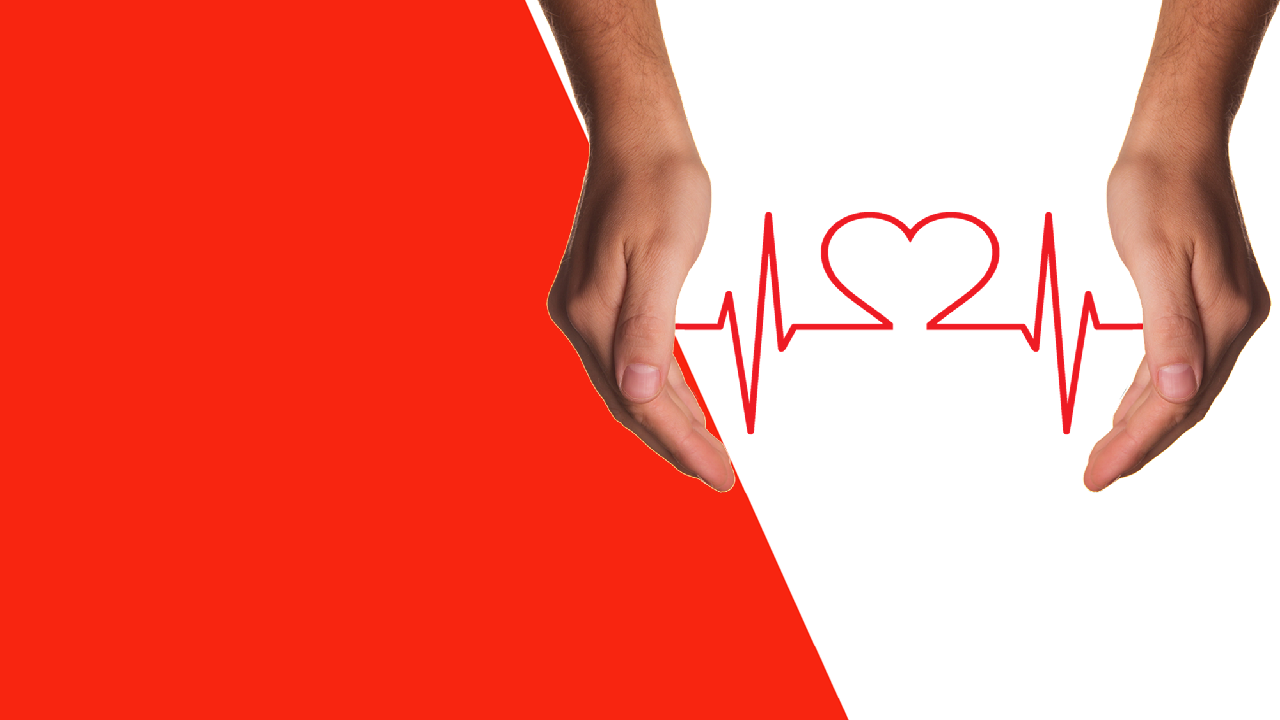
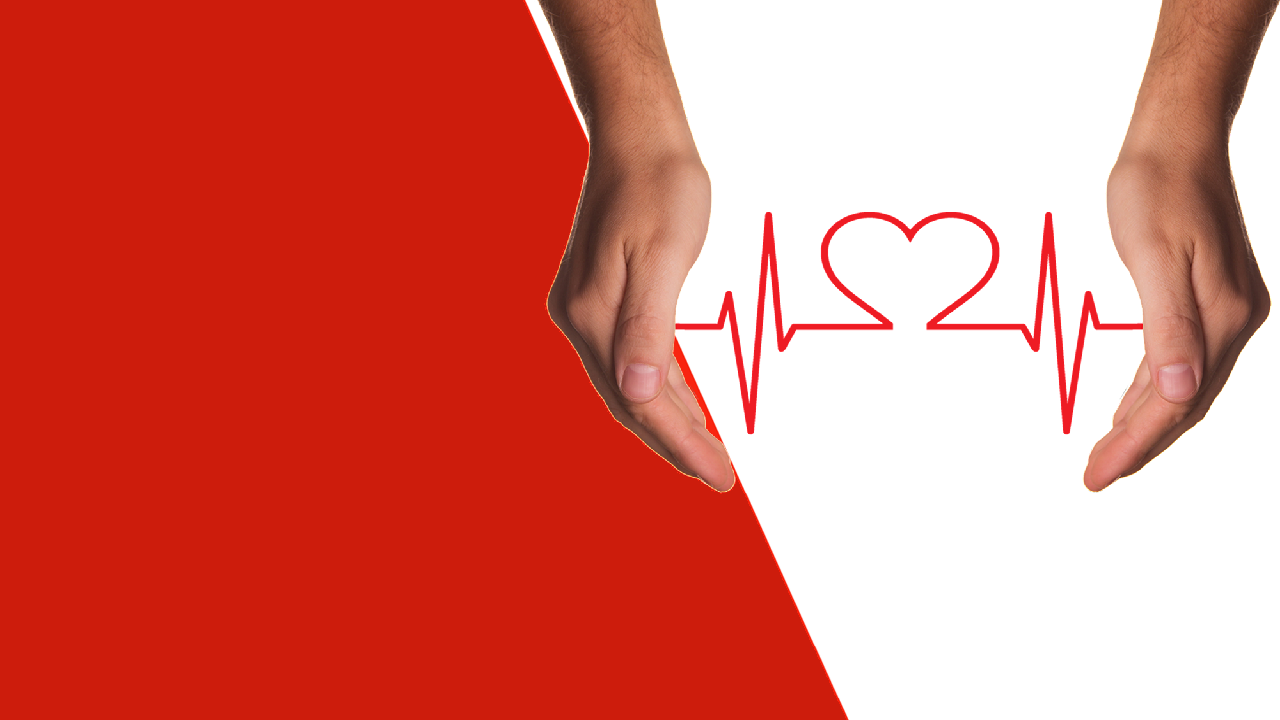
refactory: Ajustado cores e links do projeto

diff --git a/index.css b/index.css
@@ -8,6 +8,7 @@
     padding: 0;
     scroll-behavior: smooth;
     font-family: "Poppins";
+    --primary-color: #CD1C0C;
   
  }
  
@@ -58,7 +59,7 @@
 
 .header-1--menu li:nth-child(3) a{
     color: white;
-    background-color: #f82510;
+    background-color: var(--primary-color);
     transition: .5s;
 
 }
@@ -68,11 +69,11 @@ background: #ff7161;
 
 .header-1--menu li a{
     display: inline-block;
-    color: #f82510;
+    color: var(--primary-color);
     text-decoration: none;
     text-transform: uppercase;
     font-size: 12px;
-    border: 1px solid #f82510;
+    border: 1px solid var(--primary-color);
     padding: 10px;
     border-radius: 5px;
     transition: .5s;
@@ -122,7 +123,7 @@ background: #ff7161;
 }
 .heartcare_container--intro button{
     background-color: white;
-    color: #f82510;
+    color: var(--primary-color);
     padding: 10px;
     display: block;
     border: none;
@@ -162,7 +163,7 @@ section.calculadora::after {
 
     font-size: 32px;
     text-align: center;
-    color: #f82510;
+    color: var(--primary-color);
     padding-top: 100px;
 
 }
@@ -197,7 +198,7 @@ section.calculadora article img{
 section.calculadora h3 {
     font-size: 20px;
     text-align: center;
-    color: #f82510;
+    color: var(--primary-color);
     margin: 50px 0;
 
 }
@@ -215,7 +216,7 @@ section.calculadora form#imcForm input{
     display: flex;
     margin-left: 20px;
     margin-right: 3px;
-    border: 1px solid #f82510;
+    border: 1px solid var(--primary-color);
     padding: 5px;
     width: 130px;
     border-radius: 5px;
@@ -226,7 +227,7 @@ section.calculadora form#imcForm input{
 
 section.calculadora form#imcForm select{
     appearance: none;
-    border: 1px solid #f82510;
+    border: 1px solid var(--primary-color);
     padding: 5px;
     width: 130px;
     border-radius: 5px;
@@ -242,7 +243,7 @@ section.calculadora .button {
   
 }
 section.calculadora button{
-  background:  #f82510;
+  background:  var(--primary-color);
   padding: 10px;
   border-radius: 5px;
   border: none;
@@ -278,7 +279,7 @@ section.calculadora .imcResultado .imcClassificacao__Resultado{
 
 section.calculadora .imcResultado .imcClassificacao__Resultado p#resultado{
     font-size: 56px;
-    color: #f82510;
+    color: var(--primary-color);
     margin-top: 20px;
     text-align: center;
 
@@ -349,7 +350,7 @@ section#saber__sobre__o__que {
 section#saber__sobre__o__que h1{
     font-size: 32px;
     text-align: center;
-    color: #f82510;
+    color: var(--primary-color);
     padding-top: 100px;
 
 }
@@ -368,7 +369,7 @@ section#saber__sobre__o__que .header-2 .header-2--barra-pesquisa{
 
 section#saber__sobre__o__que .header-2 .header-2--barra-pesquisa input{
     margin-right: 3px;
-    border: 1px solid #f82510;
+    border: 1px solid var(--primary-color);
     padding: 5px;
     width: 300px;
     border-radius: 5px;
@@ -376,7 +377,7 @@ section#saber__sobre__o__que .header-2 .header-2--barra-pesquisa input{
 }
 
 section#saber__sobre__o__que .header-2 .header-2--barra-pesquisa button{
-    background:  #f82510;
+    background:  var(--primary-color);
     padding: 5px 10px;
     border-radius: 5px;
     border: none;
@@ -442,10 +443,10 @@ section#saber__sobre__o__que article .saber__sobre__o__que__conteudo > div p{
 }
 section#saber__sobre__o__que article .saber__sobre__o__que__conteudo > div button{
     background: white;
-    border: 1px solid #f82510;
+    border: 1px solid var(--primary-color);
     padding: 10px;
     border-radius: 3px;
-    color: #f82510;
+    color: var(--primary-color);
     font-size: 14px;
     transition: .5s;
     cursor: pointer;
@@ -472,7 +473,7 @@ header.header-3{
 header.header-3 h1{
     font-size: 32px;
     text-align: center;
-    color: #f82510;
+    color: var(--primary-color);
     padding-top: 100px;
 
 }
@@ -497,7 +498,7 @@ header.header-3 .header-3--barra-pesquisa{
 
 header.header-3 .header-3--barra-pesquisa input{
     margin-right: 3px;
-    border: 1px solid #f82510;
+    border: 1px solid var(--primary-color);
     padding: 5px;
     width: 300px;
     border-radius: 5px;
@@ -506,7 +507,7 @@ header.header-3 .header-3--barra-pesquisa input{
 }
 
 header.header-3 .header-3--barra-pesquisa button{
-    background:  #f82510;
+    background:  var(--primary-color);
     padding: 5px 10px;
     border-radius: 5px;
     border: none;
@@ -634,7 +635,7 @@ section.header-informacoes ul li a{
 /*   Inicio Footer   */
 
 footer.rodape{
-    background: #f82510;
+    background: var(--primary-color);
     height: 80px;
     text-align: center;
     display: flex;
@@ -660,13 +661,13 @@ footer.rodape{
 
   /* Handle */
   ::-webkit-scrollbar-thumb {
-    background: #f82510;
+    background: var(--primary-color);
     border-radius: 10px;
   }
 
   /* Handle on hover */
   ::-webkit-scrollbar-thumb:hover {
-    background: #f82510;
+    background: var(--primary-color);
   }
 
   @media (max-width: 1366px){

diff --git a/index.html b/index.html
@@ -61,10 +61,7 @@
         <!-- Lógica da calculadora IMC em javascript -->
        <h3>Calculadora de IMC</h3>
         <form id="imcForm">
-            <!-- Label Nome não foi requerido no prototipo -->
-            <!-- <label for="nome">Nome:</label>
-            <input type="text" id="nome" required><br><br>  -->
-
+          
             <!-- <label for="genero">Gênero:</label> -->
        <div class="container">
         <select id="genero" required>
@@ -135,7 +132,7 @@
               <div class="conteudo-1">
                 <div><img src="./docs/imagens/ai-generated-8470065_1280 1.png" alt=""></div>
                 <div>
-                    <p>Orientações para insuficiência cardíaca</p>
+                    <p><strong>Orientações para insuficiência cardíaca</strong></p>
                     <p>Medicamentos utilizados, reabilitação, autocuidado...</p>
                </div>
                 <div><button>IR PARA O SITE</button> </div>
@@ -143,7 +140,7 @@
               <div class="conteudo-2">
                 <div><img src="./docs/imagens/heart-5079717_1280 1.png" alt=""></div>
                 <div>
-                    <p>Saúde do coração</p>
+                    <p><strong>Saúde do coração</strong></p>
                     <p>Prevenir ataques e problemas do coração; controlar a pressão arterial...</p>
                </div>
                 <div><button>IR PARA O SITE</button> </div>
@@ -151,7 +148,7 @@
               <div class="conteudo-3">
                 <div><img src="./docs/imagens/medicine-2361046_1280 1.png" alt=""></div>
                 <div>
-                    <p>Doenças cardiovasculares</p>
+                    <p><strong>Doenças cardiovasculares</strong></p>
                     <p>Doença cardíaca reumática, Trombose venosa profunda e embolia pulmonar..</p>
                </div>
                 <div><button>IR PARA O SITE</button> </div>
@@ -159,7 +156,7 @@
               <div class="conteudo-4">
                 <div><img src="./docs/imagens/heart-attack-7479253_1280 1.png" alt=""></div>
                 <div>
-                    <p>Parada Cardíaca</p>
+                    <p><strong>Parada Cardíaca</strong></p>
                     <p>O que fazer em caso de emergência cardiovascular.</p>
                </div>
                 <div><button>IR PARA O SITE</button> </div>
@@ -167,7 +164,7 @@
               <div class="conteudo-5">
                 <div><img src="./docs/imagens/doctor-8733826_1280 1.png" alt=""></div>
                 <div>
-                    <p>Fatores de Risco</p>
+                    <p><strong>Fatores de Risco</strong></p>
                     <p>Fatores de risco para doenças cardiovasculares</p>
                </div>
                 <div><button>IR PARA O SITE</button> </div>
@@ -253,11 +250,11 @@
 
             <ul>
                 <li><strong>Links úteis</strong></li>
-                <li><a href="#">Saúde do coração</a></li>
-                <li><a href="#">Parada cardíaca</a></li>
-                <li><a href="#">Doenças cardiovasculares</a></li>
-                <li><a href="#">Fatores de risco</a></li>
-                <li><a href="#">Criadores</a></li>
+                <li><a href="#saber__sobre__o__que">Saúde do coração</a></li>
+                <li><a href="#saber__sobre__o__que">Parada cardíaca</a></li>
+                <li><a href="#saber__sobre__o__que">Doenças cardiovasculares</a></li>
+                <li><a href="#saber__sobre__o__que">Fatores de risco</a></li>
+                <li><a href="#saber__sobre__o__que">Criadores</a></li>
             </ul>
         </nav>
     </section>
